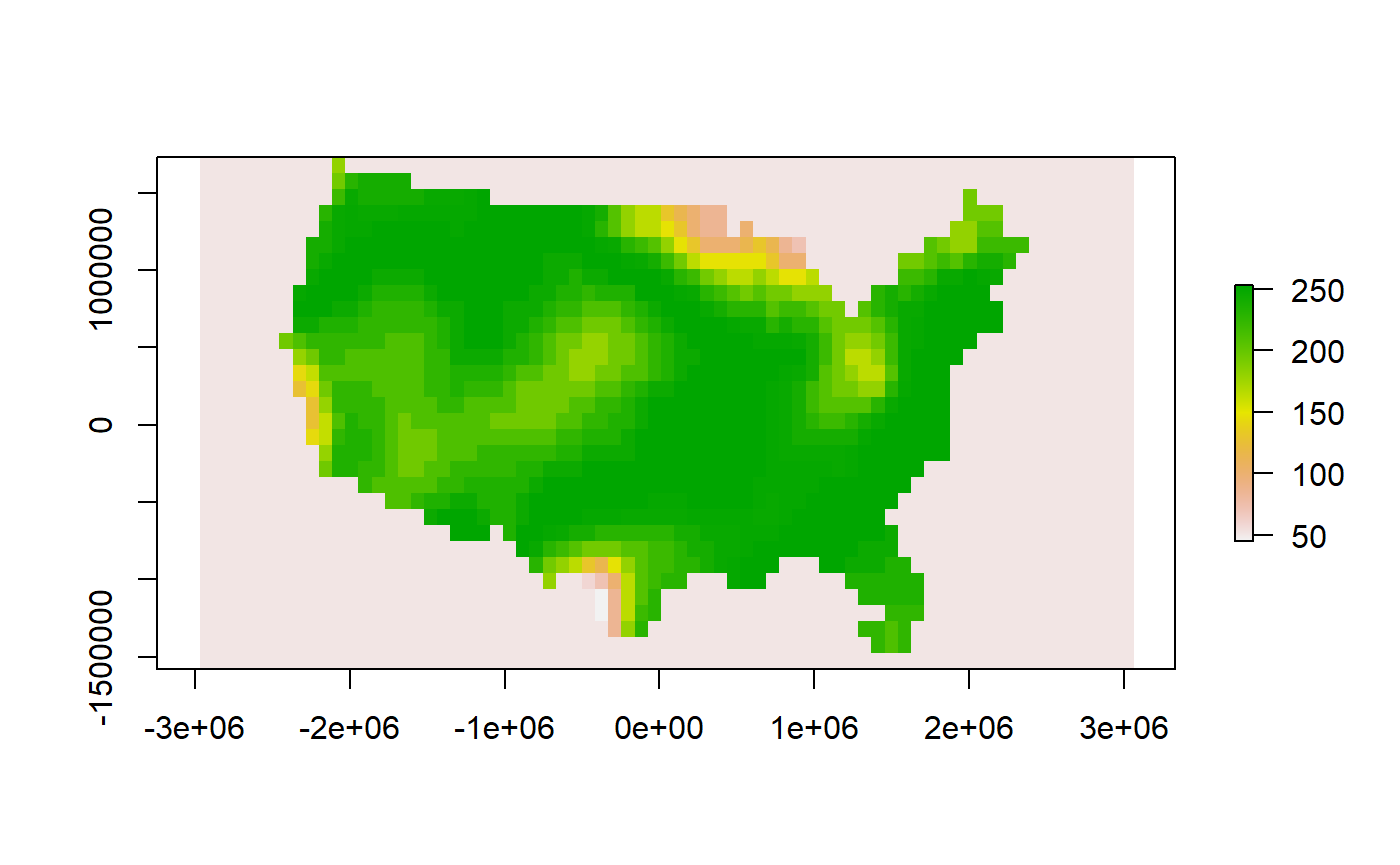
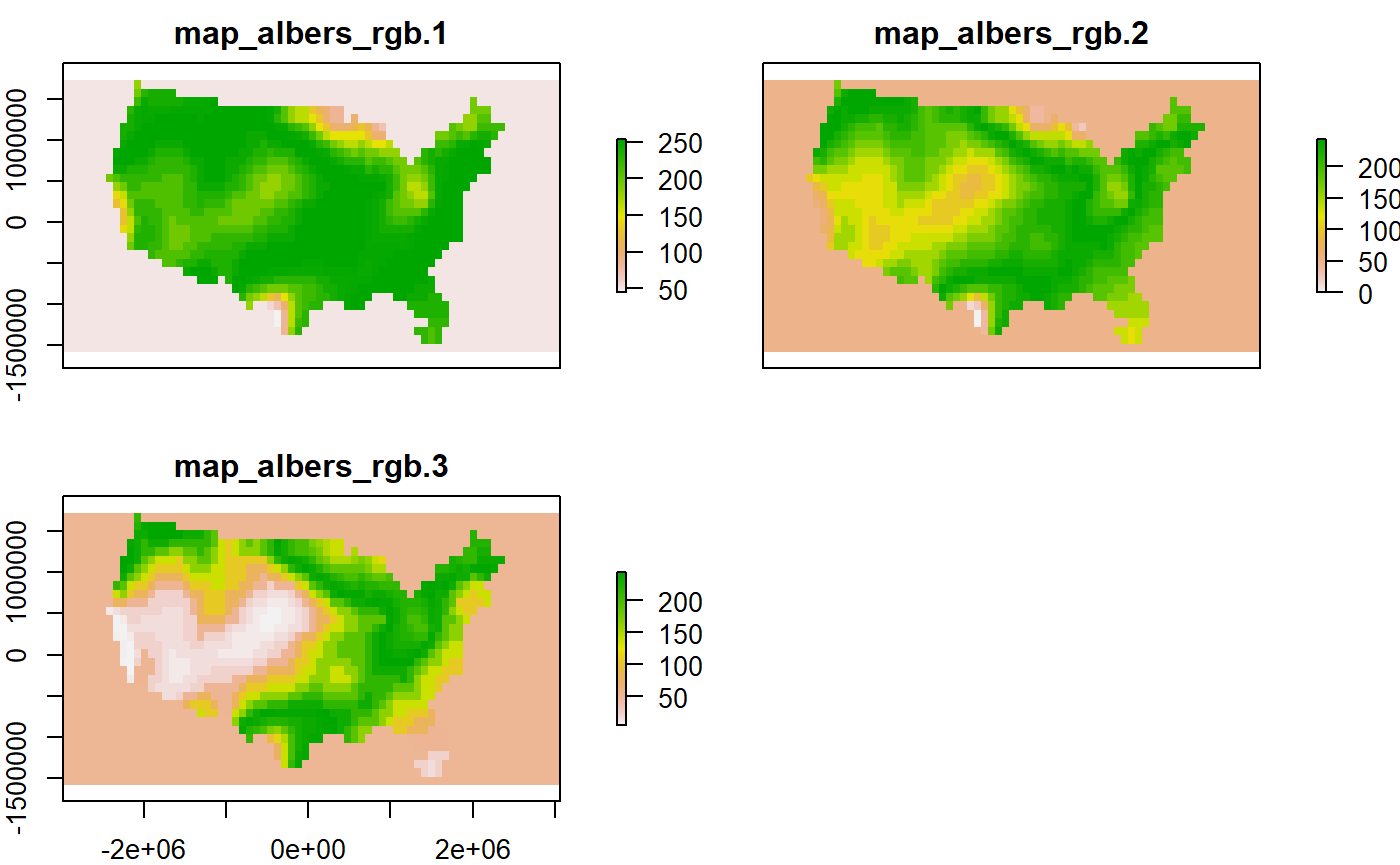
Update vignette formatting, fix example.

diff --git a/docs/articles/tiler.html b/docs/articles/tiler.html
@@ -261,16 +261,16 @@ nodata &lt;-<span class="st"> "tomato"</span>
 <a href="#rgb-and-rgba-rasters" class="anchor"></a>RGB and RGBA rasters</h3>
 <p>Multi-band rasters are supported as long as they have three or four layers, in which case <code>tile</code> assumes these represent red, green, blue and alpha channel, respectively. Internally, single-layer raster files are colored and converted to a three- or four-band RGB/A raster object prior to tile generation. If <code>file</code> is already such a raster, this step is simply skipped. Optional arguments like data and <code>noData</code> color, break points, etc., are ignored since this type of raster contains its own color information.</p>
 <div class="sourceCode"><pre class="sourceCode r"><code class="sourceCode r">map &lt;-<span class="st"> </span><span class="kw">system.file</span>(<span class="st">"maps/map_albers_rgb.tif"</span>, <span class="dt">package =</span> <span class="st">"tiler"</span>)
-(r &lt;-<span class="st"> </span><span class="kw">raster</span>(map))
-<span class="co">#&gt; class       : RasterLayer </span>
-<span class="co">#&gt; band        : 1  (of  3  bands)</span>
-<span class="co">#&gt; dimensions  : 32, 71, 2272  (nrow, ncol, ncell)</span>
+(r &lt;-<span class="st"> </span><span class="kw">brick</span>(map))
+<span class="co">#&gt; class       : RasterBrick </span>
+<span class="co">#&gt; dimensions  : 32, 71, 2272, 3  (nrow, ncol, ncell, nlayers)</span>
 <span class="co">#&gt; resolution  : 85011.74, 103363.8  (x, y)</span>
 <span class="co">#&gt; extent      : -2976297, 3059536, -1577300, 1730342  (xmin, xmax, ymin, ymax)</span>
 <span class="co">#&gt; coord. ref. : +proj=aea +lat_1=29.5 +lat_2=45.5 +lat_0=37.5 +lon_0=-96 +x_0=0 +y_0=0 +ellps=GRS80 +towgs84=0,0,0,0,0,0,0 +units=m +no_defs </span>
 <span class="co">#&gt; data source : C:\Users\Matt\Documents\R\win-library\3.5\tiler\maps\map_albers_rgb.tif </span>
-<span class="co">#&gt; names       : map_albers_rgb </span>
-<span class="co">#&gt; values      : 45, 253  (min, max)</span>
+<span class="co">#&gt; names       : map_albers_rgb.1, map_albers_rgb.2, map_albers_rgb.3 </span>
+<span class="co">#&gt; min values  :               45,                0,                6 </span>
+<span class="co">#&gt; max values  :              253,              243,              244</span>
 <span class="kw">plot</span>(r)</code></pre></div>
 <p><img src="tiler_files/figure-html/ex6-1.png" width="700"></p>
 <div class="sourceCode"><pre class="sourceCode r"><code class="sourceCode r">
@@ -280,9 +280,9 @@ nodata &lt;-<span class="st"> "tomato"</span>
 <span class="co">#&gt; Creating tiles. Please wait...</span></code></pre></div>
 </div>
 </div>
-<div id="simple-crsnon-geographic-map-tiles" class="section level2">
+<div id="non-geographic-map-tiles" class="section level2">
 <h2 class="hasAnchor">
-<a href="#simple-crsnon-geographic-map-tiles" class="anchor"></a>Simple CRS/non-geographic map tiles</h2>
+<a href="#non-geographic-map-tiles" class="anchor"></a>Non-geographic map tiles</h2>
 <p>Almost all map tiles you encounter are for geographic maps. They have a geographic coordinate reference system (CRS). Software used to display these map tiles, such as Leaflet, is similarly focused on these kinds of map tiles. Everything is geared towards the dominant use case involving geospatial coordinate systems.</p>
 <p>However, there are edge cases where non-geographic maps are required. These can be maps of outer space, game board maps, etc. The base map used to generate map tiles is usually a simple image like a <code>png</code>, <code>jpg</code> or <code>bmp</code> file. The coordinate reference system is a simple Cartesian coordinate system based on the matrix of pixels or grid cells that represent the image.</p>
 <p>There is no longitude or latitude or more complex geospatial projection associated with these maps, which is why they are said to have a “simple CRS”. Simple does not necessarily mean easier to work with, however, because geospatial tools, like Leaflet for example, do not cater naturally to non-geographic coordinate systems. Using these map tiles in Leaflet is possible, but takes a bit of non-standard effort.</p>
@@ -309,7 +309,9 @@ nodata &lt;-<span class="st"> "tomato"</span>
 <div id="serving-map-tiles" class="section level2">
 <h2 class="hasAnchor">
 <a href="#serving-map-tiles" class="anchor"></a>Serving map tiles</h2>
-<p>Map tiles must be served online to be of much use. Serving map tiles is not the purpose of <code>tiler</code> but using your GitHub account is an easy way to do this. Create a GitHub repository, enable GitHub pages for the repository in the repository settings. If the repository is exclusively for serving your map tiles, just set the master branch as the source for your GitHub pages. After committing and pushing your tiles to GitHub, you can access them using a URL of the form <code>https://&lt;your account name&gt;.github.io/maptiles/tiles/{z}/{x}/{y}.png</code>, if you store your tiles in a folder named <code>tiles</code> in a repository named <code>maptiles</code> for example.</p>
+<p>Map tiles must be served online to be of much use. Serving map tiles is not the purpose of <code>tiler</code> but using your GitHub account is an easy way to do this. Create a GitHub repository, enable GitHub pages for the repository in the repository settings. If the repository is exclusively for serving your map tiles, just set the master branch as the source for your GitHub pages. After committing and pushing your tiles to GitHub, you can access them using a URL of the form</p>
+<p><code>https://&lt;your account name&gt;.github.io/maptiles/tiles/{z}/{x}/{y}.png</code></p>
+<p>if you store your tiles in a folder named <code>tiles</code> in a repository named <code>maptiles</code> for example.</p>
 <p>Here are some <a href="https://github.com/leonawicz/tiles/">examples of non-geographic tile sets</a> hosted on GitHub using Star Trek galaxy maps generated with <code>tiler</code> and here they are used in <a href="https://leonawicz.github.io/rtrek/articles/sc.html">Leaflet maps</a>.</p>
 <p>The <code>leaflet</code> R code need to use custom non-geographic tiles like these requires setting <code>leafletOptions(crs = leafletCRS("L.CRS.Simple")</code> as well as calling <code>addTiles(urlTemplate = url)</code> where <code>url</code> is like the example URL shown above. Setting the focus of the map can be a bit tricky for non-geographic map tiles based on an arbitrary image file. It may take some trial and error to get a sense for the custom coordinate system.</p>
 </div>
@@ -322,7 +324,7 @@ nodata &lt;-<span class="st"> "tomato"</span>
       <ul class="nav nav-pills nav-stacked">
 <li><a href="#setup-windows-users">Setup (Windows users)</a></li>
       <li><a href="#geographic-map-tiles">Geographic map tiles</a></li>
-      <li><a href="#simple-crsnon-geographic-map-tiles">Simple CRS/non-geographic map tiles</a></li>
+      <li><a href="#non-geographic-map-tiles">Non-geographic map tiles</a></li>
       <li><a href="#additional-arguments">Additional arguments</a></li>
       <li><a href="#serving-map-tiles">Serving map tiles</a></li>
       </ul>
